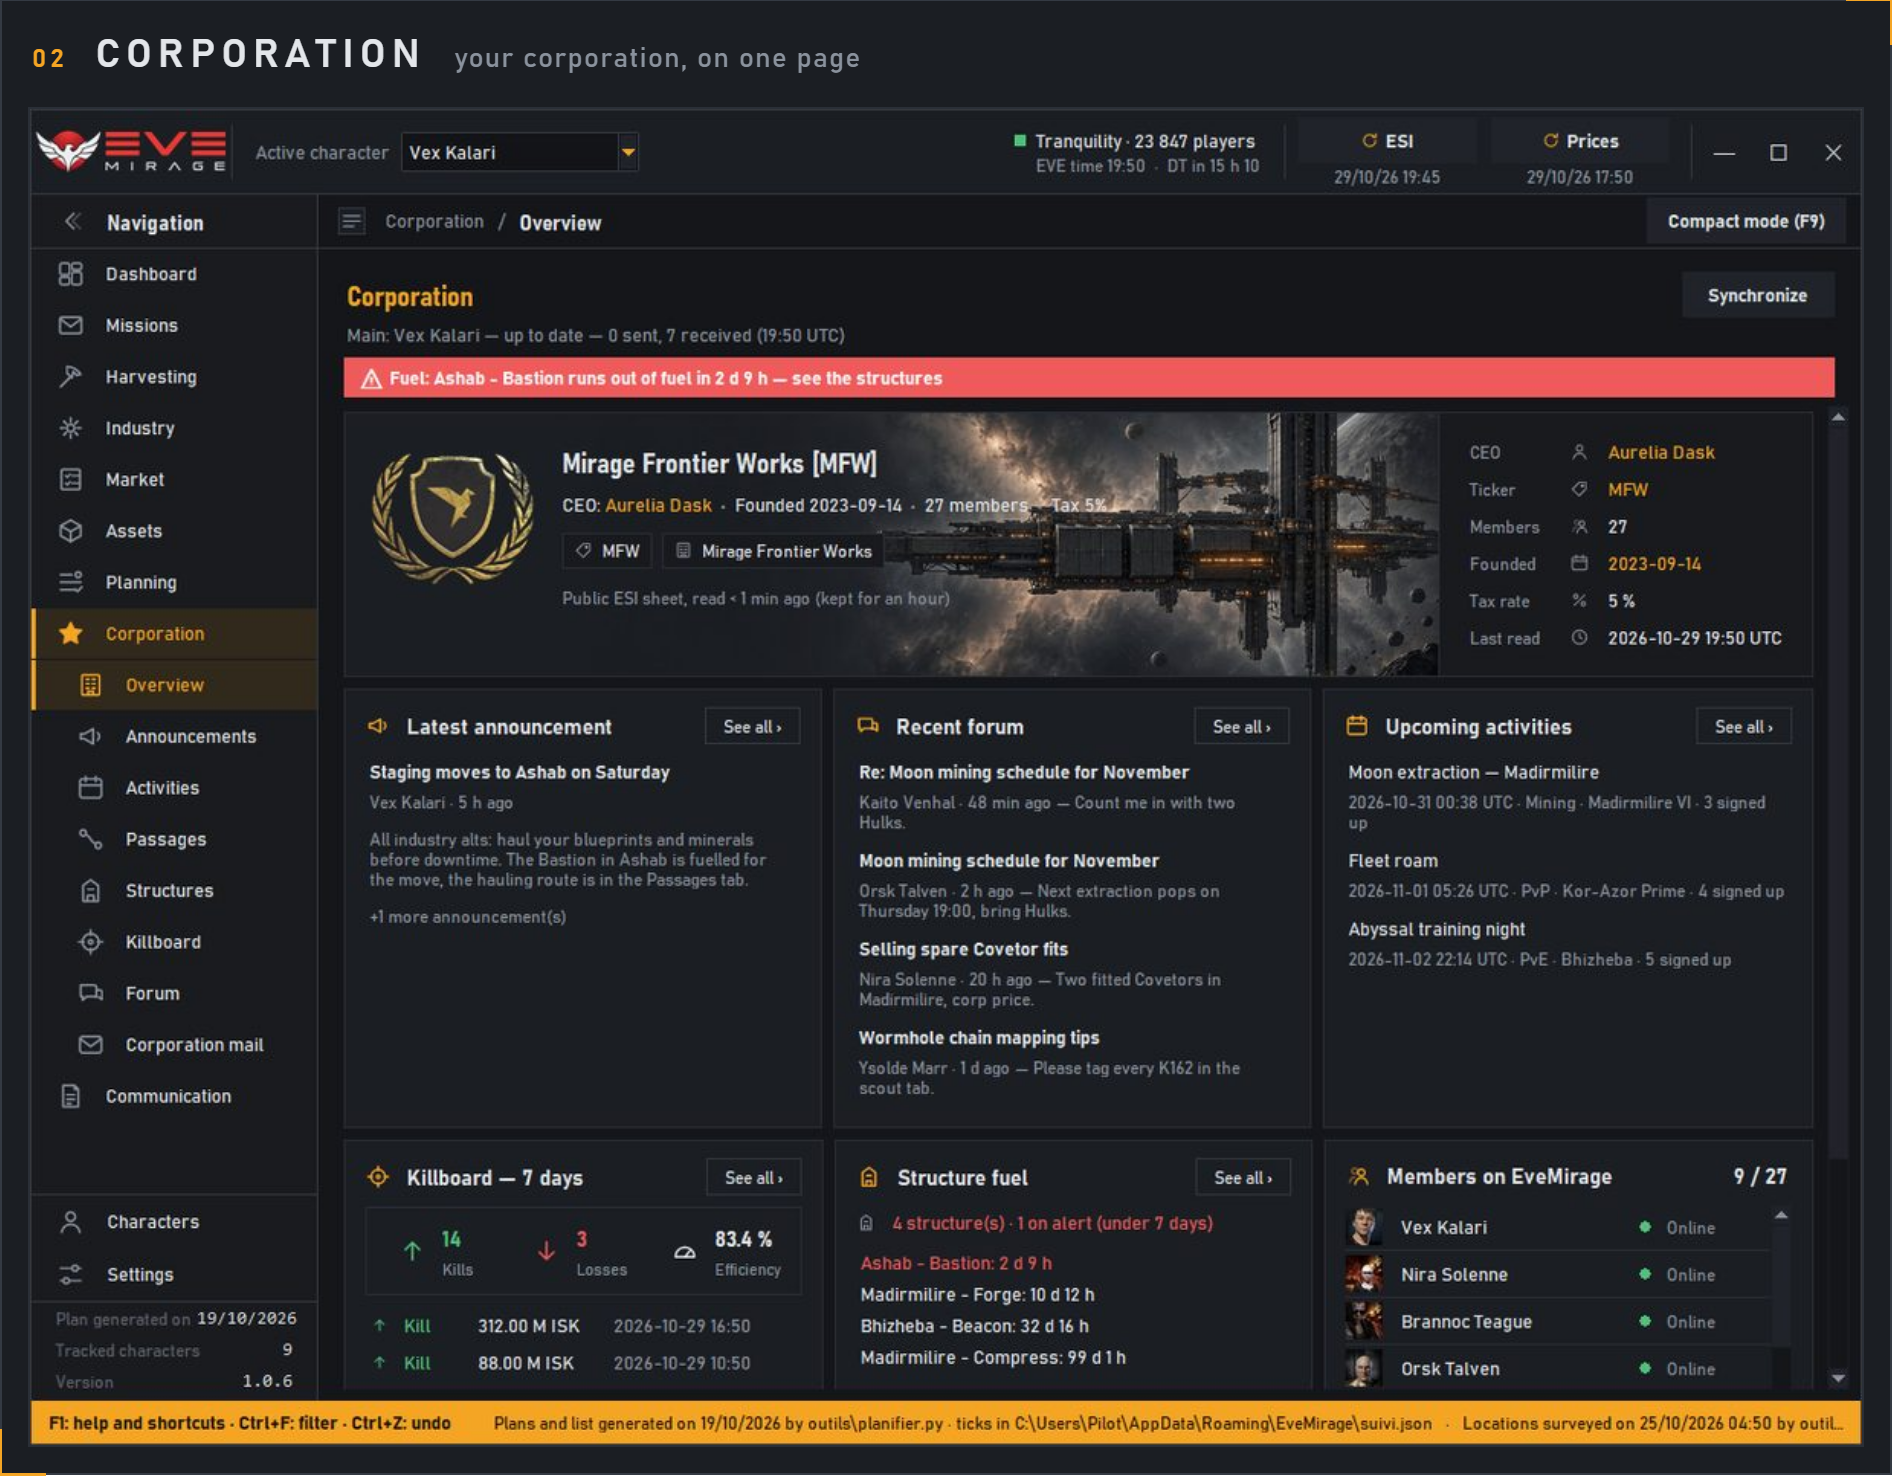
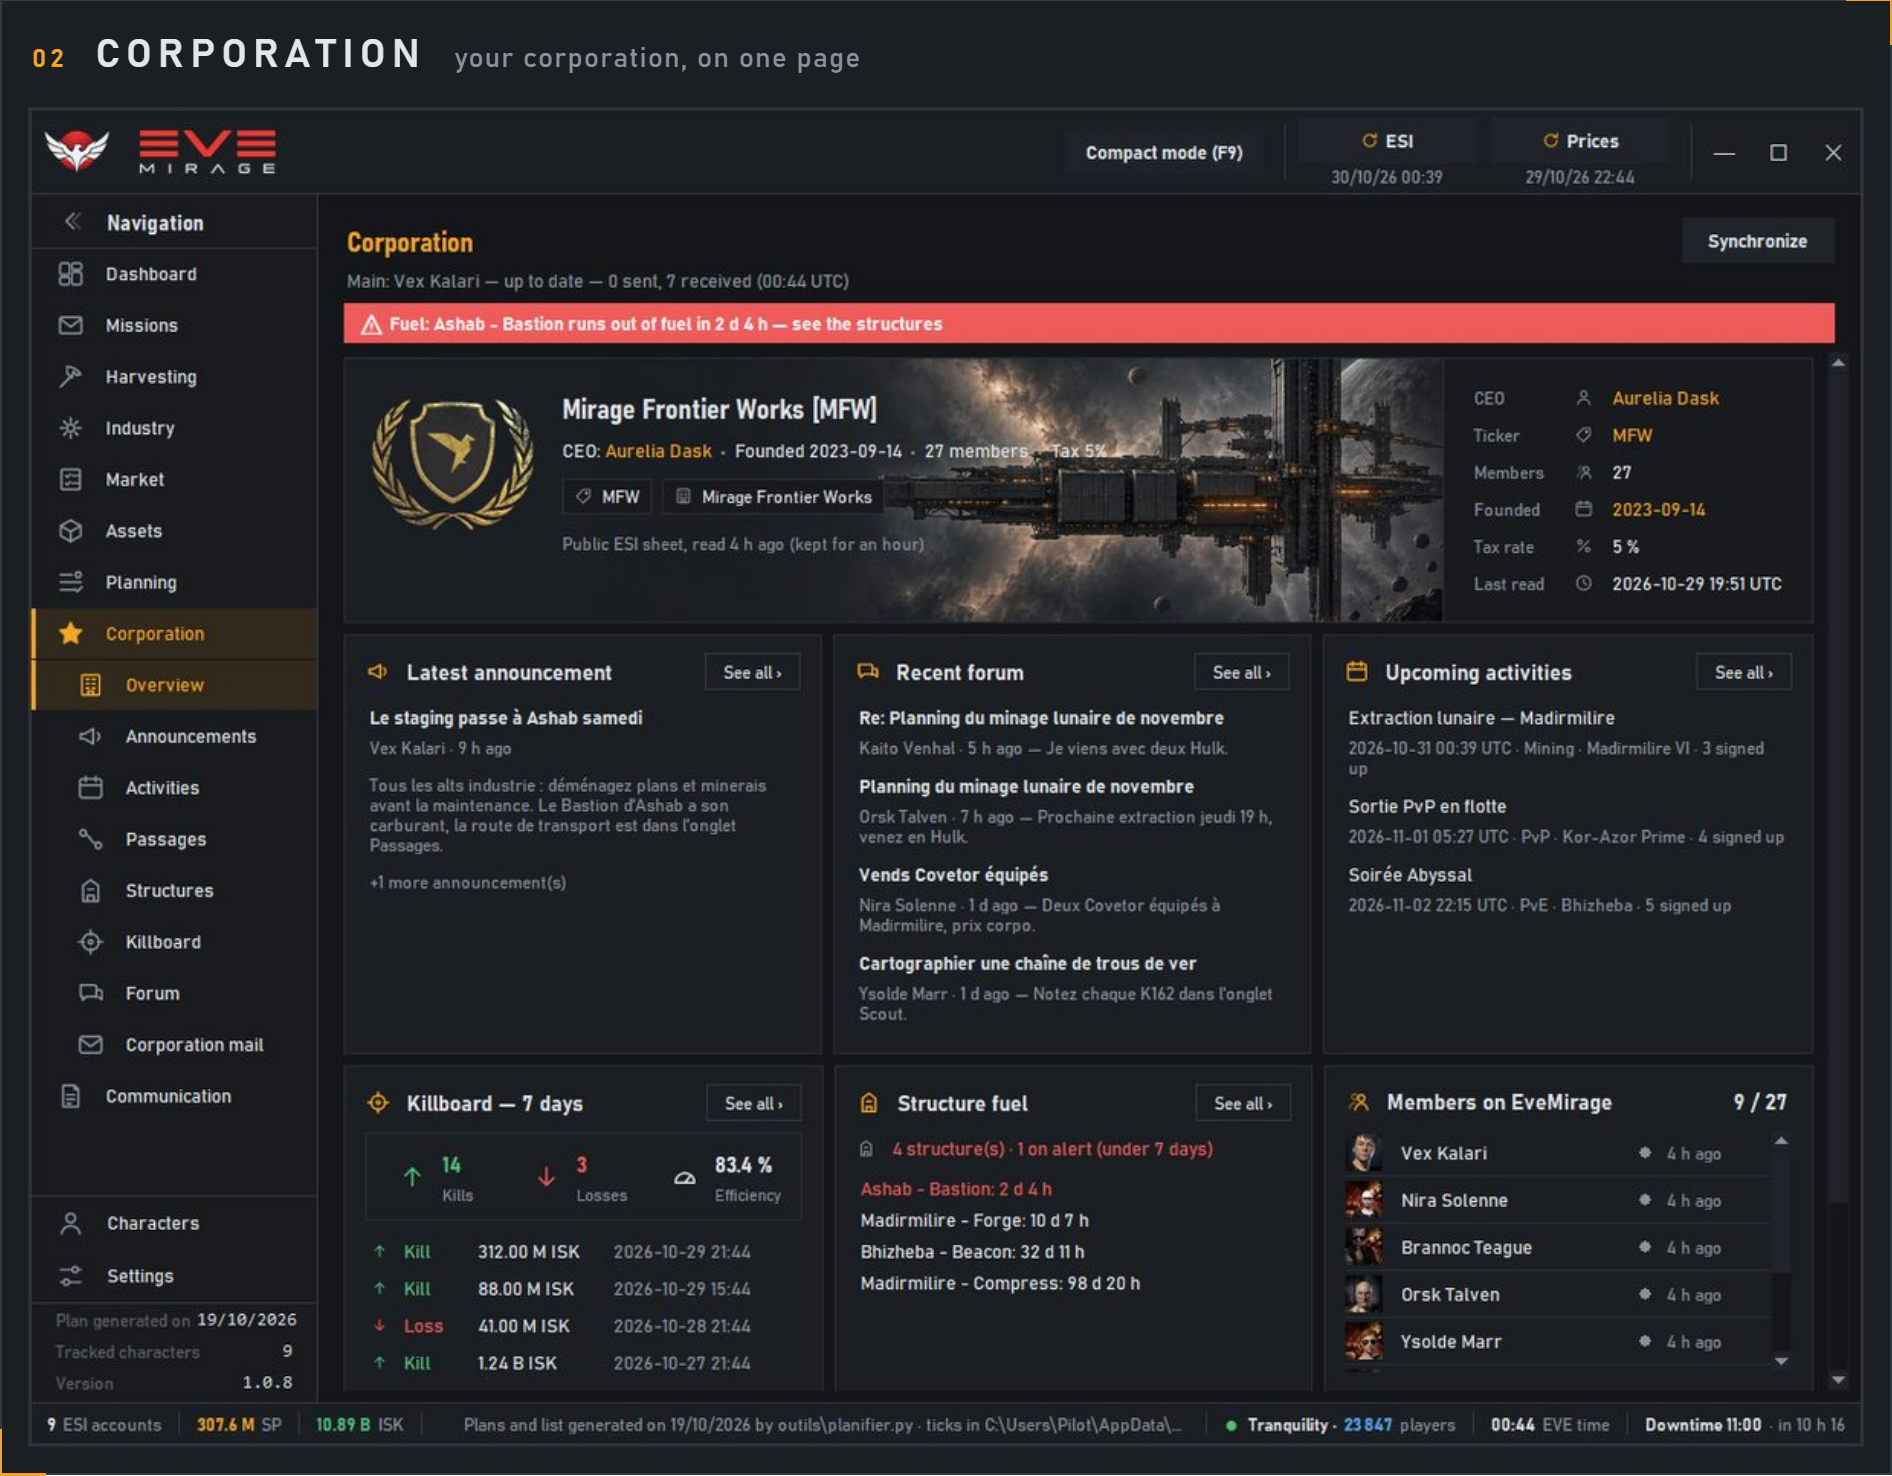
docs: journal et captures de la 1.0.8

diff --git a/README.fr.md b/README.fr.md
@@ -8,8 +8,8 @@
 </p>
 
 <p align="center">
-<img src="https://img.shields.io/badge/version-1.0.7-F5A524?style=for-the-badge&labelColor=1B1E23" alt="version">
-<img src="https://img.shields.io/badge/publi%C3%A9e-29%20oct.%202026-F5A524?style=for-the-badge&labelColor=1B1E23" alt="publiée">
+<img src="https://img.shields.io/badge/version-1.0.8-F5A524?style=for-the-badge&labelColor=1B1E23" alt="version">
+<img src="https://img.shields.io/badge/publi%C3%A9e-30%20oct.%202026-F5A524?style=for-the-badge&labelColor=1B1E23" alt="publiée">
 <img src="https://img.shields.io/github/downloads/myrmoon/evemirage-releases/total?style=for-the-badge&labelColor=1B1E23&color=F5A524&label=t%C3%A9l%C3%A9chargements" alt="téléchargements">
 <img src="https://img.shields.io/badge/windows-10%20%C2%B7%2011-F5A524?style=for-the-badge&labelColor=1B1E23" alt="Windows 10 · 11">
 </p>
@@ -27,7 +27,7 @@
 <table>
 <tr>
 <td width="50%" valign="top"><img src="assets/fr/03.png" width="100%" alt="Assets"><br>
-Par lieu et par catégorie, au prix de Jita, pour un personnage ou tous.</td>
+Par lieu et par catégorie, au prix de Jita, pour un, plusieurs ou tous les personnages.</td>
 <td width="50%" valign="top"><img src="assets/fr/04.png" width="100%" alt="Marché"><br>
 Ordres d'achat et de vente dans chaque station, ton <strong>rang</strong> et l'écart au meilleur prix.</td>
 </tr>
@@ -110,84 +110,46 @@ EveMirage dans une langue, les objets du jeu dans une autre : <strong>deux régl
 
 <p align="center"><img src="assets/fr/version.png" width="100%" alt="VERSION"></p>
 
-<p><strong>1.0.7</strong> — 29 octobre 2026</p>
+<p><strong>1.0.8</strong> — 30 octobre 2026</p>
 
 <p align="center"><img src="assets/fr/improvements.png" width="100%" alt="AMÉLIORATIONS"></p>
 
 <ul>
-<li>Un pied d'informations en bas : les comptes ESI, les SP et les ISK.</li>
-<li>Tranquility, le nombre de joueurs connectés, l'heure EVE et le downtime sont dans le pied.</li>
-<li>La barre du haut est allégée : le fil d'Ariane et le mode compact y montent, la page gagne une rangée.</li>
-<li>Le logo a ses nouvelles proportions.</li>
-</ul>
-
-<p align="center"><img src="assets/fr/fixes.png" width="100%" alt="CORRECTIFS"></p>
-
-<ul>
-<li>Plus de bandeau jaune en bas de la fenêtre.</li>
-<li>« Aucun personnage suivi » se dit dans le tableau de bord, qui ouvre les comptes ESI.</li>
+<li>Choix du personnage dans chaque page qui en a besoin ; un, plusieurs ou tous au marché</li>
+<li>Améliorations visuelles</li>
 </ul>
 
 <details>
-<summary>Versions précédentes</summary>
+<summary>Les 5 versions précédentes</summary>
+
+<p><strong>1.0.7</strong> — 29 octobre 2026</p>
+<ul>
+<li>Nouveau pied d'informations : comptes ESI, SP, ISK, serveur et heure EVE</li>
+<li>Améliorations visuelles</li>
+</ul>
 
 <p><strong>1.0.6</strong> — 29 octobre 2026</p>
-<p><strong>Améliorations</strong></p>
 <ul>
-<li>La barre du haut est réorganisée : plus de barre de menus.</li>
-<li>ESI et Prix ont leur bouton en haut à droite, avec la date de leur dernière lecture.</li>
-<li>Tranquility et le nombre de joueurs connectés, l'heure EVE et le temps avant le downtime sont dans la barre.</li>
-<li>Thème, dossiers, À propos et Quitter sont dans les Réglages ; Projets est dans Planification, Personnages dans les comptes ESI.</li>
-<li>Le logo de la barre suit le thème.</li>
-<li>La page Missions donne la date du relevé des missions et des agents.</li>
-<li>L'exe ne change plus d'une version à l'autre : après celle-ci, l'antivirus ne le réexamine plus à chaque mise à jour, et le démarrage est un peu plus rapide.</li>
+<li>Améliorations visuelles</li>
+<li>Amélioration de l'installateur</li>
 </ul>
 
 <p><strong>1.0.5</strong> — 29 octobre 2026</p>
-<p><strong>Corrections</strong></p>
 <ul>
-<li>La mise à jour se propose dans une fenêtre au milieu d'EveMirage, avec ce que la version change.</li>
-<li>Après une mise à jour, l'installateur ne lance plus EveMirage deux fois.</li>
-<li>Le logo Myrmoon de l'installateur ne colle plus au coin.</li>
+<li>La mise à jour se propose dans une fenêtre</li>
+<li>Amélioration de l'installateur</li>
 </ul>
 
 <p><strong>1.0.4</strong> — 29 octobre 2026</p>
-<p><strong>Corrections</strong></p>
 <ul>
-<li>Le logo d'EveMirage s'affiche bien au démarrage.</li>
-<li>L'installateur ne lance plus EveMirage deux fois au « Terminer ».</li>
-<li>La pastille Compétences dit la date du dernier relevé ESI, et non plus « inconnu ».</li>
-<li>Les messages hors ligne d'Ordres, Contrats et Jobs d'industrie sont en anglais dans l'interface anglaise.</li>
-<li>L'installateur et le désinstalleur portent le logo Myrmoon.</li>
+<li>Corrections visuelles et de traduction</li>
+<li>Amélioration de l'installateur</li>
 </ul>
 
 <p><strong>1.0.3</strong> — 29 octobre 2026</p>
-<p><strong>Corrections</strong></p>
 <ul>
-<li>La mise à jour automatique passe désormais par le nouveau dépôt de publication.</li>
+<li>Correction de la mise à jour automatique</li>
 </ul>
-
-<p><strong>1.0.2</strong> — 29 octobre 2026</p>
-<p><strong>Corrections</strong></p>
-<ul>
-<li>Les titres de page sont traduits : Ordres, Contrats, Jobs d'industrie, Agents à distance.</li>
-<li>« Announcement » n'est plus rogné sur le tableau de bord en anglais.</li>
-</ul>
-
-<p><strong>1.0.1</strong> — 28 octobre 2026 · première version publique</p>
-<p><strong>Améliorations</strong></p>
-<ul>
-<li><strong>Mise à jour automatique</strong> : EveMirage te propose la version suivante et l'installe, signature vérifiée.</li>
-<li>Installation pour ton compte Windows seul, sans droits d'administrateur.</li>
-<li>Service de corporation : fiche générale, carburant des structures, événements du jeu.</li>
-</ul>
-<p><strong>Corrections</strong></p>
-<ul>
-<li>Les cases de la file restaient cochées après un changement de personnage.</li>
-<li>La ligne CARBURANT s'affichait en rouge à tort.</li>
-<li>Un lien d'événement ne s'ouvre plus que s'il est en <code>https://</code>.</li>
-</ul>
-<p><strong>1.0</strong> — 27 octobre 2026 · partagée aux premiers testeurs, sans mise à jour automatique.</p>
 </details>
 
 <table>

diff --git a/README.md b/README.md
@@ -8,8 +8,8 @@
 </p>
 
 <p align="center">
-<img src="https://img.shields.io/badge/version-1.0.7-F5A524?style=for-the-badge&labelColor=1B1E23" alt="version">
-<img src="https://img.shields.io/badge/released-oct%2029%2C%202026-F5A524?style=for-the-badge&labelColor=1B1E23" alt="released">
+<img src="https://img.shields.io/badge/version-1.0.8-F5A524?style=for-the-badge&labelColor=1B1E23" alt="version">
+<img src="https://img.shields.io/badge/released-oct%2030%2C%202026-F5A524?style=for-the-badge&labelColor=1B1E23" alt="released">
 <img src="https://img.shields.io/github/downloads/myrmoon/evemirage-releases/total?style=for-the-badge&labelColor=1B1E23&color=F5A524&label=downloads" alt="downloads">
 <img src="https://img.shields.io/badge/windows-10%20%C2%B7%2011-F5A524?style=for-the-badge&labelColor=1B1E23" alt="Windows 10 · 11">
 </p>
@@ -27,7 +27,7 @@
 <table>
 <tr>
 <td width="50%" valign="top"><img src="assets/en/03.png" width="100%" alt="Assets"><br>
-By location and category, at Jita prices, for one character or all.</td>
+By location and category, at Jita prices, for one, several or all characters.</td>
 <td width="50%" valign="top"><img src="assets/en/04.png" width="100%" alt="Market"><br>
 Buy and sell orders in every station, your <strong>rank</strong> and the gap to the best price.</td>
 </tr>
@@ -110,84 +110,46 @@ Read EveMirage in one language and the game's items in another: <strong>two inde
 
 <p align="center"><img src="assets/en/version.png" width="100%" alt="VERSION"></p>
 
-<p><strong>1.0.7</strong> — October 29, 2026</p>
+<p><strong>1.0.8</strong> — October 30, 2026</p>
 
 <p align="center"><img src="assets/en/improvements.png" width="100%" alt="IMPROVEMENTS"></p>
 
 <ul>
-<li>An information footer at the bottom: ESI accounts, SP and ISK.</li>
-<li>Tranquility, the number of players online, EVE time and downtime are in the footer.</li>
-<li>The top bar is lighter: the breadcrumb and compact mode move up into it, the page gains a row.</li>
-<li>The logo has its new proportions.</li>
-</ul>
-
-<p align="center"><img src="assets/en/fixes.png" width="100%" alt="FIXES"></p>
-
-<ul>
-<li>No more yellow strip at the bottom of the window.</li>
-<li>“No tracked character” is shown on the dashboard, which opens the ESI accounts.</li>
+<li>Choose the character on each page that needs it; one, several or all on the market</li>
+<li>Visual improvements</li>
 </ul>
 
 <details>
-<summary>Previous versions</summary>
+<summary>The last 5 previous versions</summary>
+
+<p><strong>1.0.7</strong> — October 29, 2026</p>
+<ul>
+<li>New information footer: ESI accounts, SP, ISK, server and EVE time</li>
+<li>Visual improvements</li>
+</ul>
 
 <p><strong>1.0.6</strong> — October 29, 2026</p>
-<p><strong>Improvements</strong></p>
 <ul>
-<li>The top bar is reorganised: no more menu bar.</li>
-<li>ESI and Prices have their button at the top right, with the date of their last read.</li>
-<li>Tranquility and the number of players online, EVE time and the time until downtime are in the bar.</li>
-<li>Theme, folders, About and Quit are in Settings; Projects is in Planning, Characters in the ESI accounts.</li>
-<li>The logo in the bar follows the theme.</li>
-<li>The Missions page gives the date the missions and agents were surveyed.</li>
-<li>The exe no longer changes between versions: after this one, the antivirus stops re-examining it at every update, and startup is a little faster.</li>
+<li>Visual improvements</li>
+<li>Installer improvement</li>
 </ul>
 
 <p><strong>1.0.5</strong> — October 29, 2026</p>
-<p><strong>Fixes</strong></p>
 <ul>
-<li>Updates are now offered in a window in the middle of EveMirage, with what the version changes.</li>
-<li>After an update, the installer no longer starts EveMirage twice.</li>
-<li>The Myrmoon logo on the installer no longer touches the corner.</li>
+<li>The update is offered in a window</li>
+<li>Installer improvement</li>
 </ul>
 
 <p><strong>1.0.4</strong> — October 29, 2026</p>
-<p><strong>Fixes</strong></p>
 <ul>
-<li>The EveMirage logo now shows reliably at startup.</li>
-<li>The installer no longer starts EveMirage twice when you click Finish.</li>
-<li>The Skills badge shows the date of the last ESI reading instead of “unknown”.</li>
-<li>Offline messages in Orders, Contracts and Industry jobs are now in English.</li>
-<li>The installer and uninstaller carry the Myrmoon logo.</li>
+<li>Visual and translation fixes</li>
+<li>Installer improvement</li>
 </ul>
 
 <p><strong>1.0.3</strong> — October 29, 2026</p>
-<p><strong>Fixes</strong></p>
 <ul>
-<li>Automatic updates now come from the new release repository.</li>
+<li>Automatic update fix</li>
 </ul>
-
-<p><strong>1.0.2</strong> — October 29, 2026</p>
-<p><strong>Fixes</strong></p>
-<ul>
-<li>Page titles are now translated: Orders, Contracts, Industry jobs, Remote agents.</li>
-<li>“Announcement” is no longer cut off on the dashboard.</li>
-</ul>
-
-<p><strong>1.0.1</strong> — October 28, 2026 · first public release</p>
-<p><strong>Improvements</strong></p>
-<ul>
-<li><strong>Automatic update</strong>: EveMirage offers the next version and installs it, signature checked.</li>
-<li>Installs for your Windows account only, no administrator rights.</li>
-<li>Corporation service: general page, structure fuel, in-game events.</li>
-</ul>
-<p><strong>Fixes</strong></p>
-<ul>
-<li>Queue checkboxes stayed ticked after switching character.</li>
-<li>The FUEL line was wrongly shown in red.</li>
-<li>An event link only opens if it starts with <code>https://</code>.</li>
-</ul>
-<p><strong>1.0</strong> — October 27, 2026 · shared with the first testers, without automatic update.</p>
 </details>
 
 <table>
